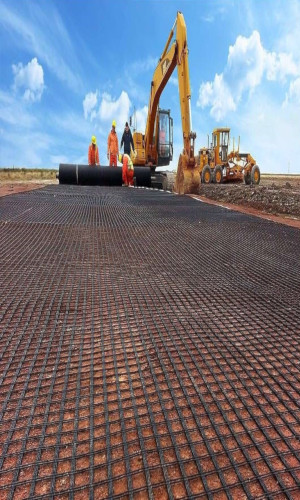
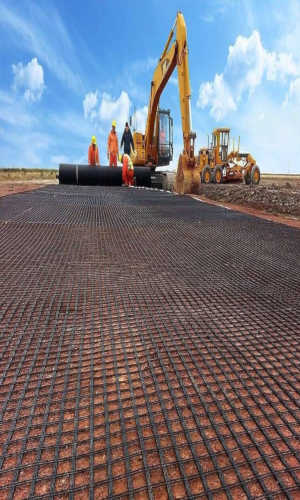
fotos atualizadas

diff --git a/index.html b/index.html
@@ -35,7 +35,7 @@
 
             <picture>
                 <source media="(max-width: 600px)" srcset="imagem/1foto300x500.jpg">
-                <img src="imagem/1foto1060x500.jpg" alt="Geossintéticos">
+                <img src="imagem/1foto1000x500.jpg" alt="Geossintéticos">
                 <figcaption class="imagens">
                     <h4><em>Geogrelhas</em></h4>
                     <p><em>A principal aplicação das geogrelhas é em reforço dos solos.</em></p>
@@ -53,8 +53,8 @@
             <p>Esses produtos são constituídos por uma grande variedade de materiais e formas, cada um adequado a um determinado uso ou necessidade. Em geotecnia as principais obras que utilizam esses materiais são: aeroportos, ferrovias, rodovias, aterros, estruturas de contenção, reservatórios, canais e barragens.</p>
 
             <picture>
-                <source media="(max-width: 600px)" srcset="imagem/canal450x550.jpg">
-                <img src="imagem/2foto1060x500.jpg" alt="Obra de Canal de Impermeabilização">
+                <source media="(max-width: 600px)" srcset="imagem/2foto450x550.jpg">
+                <img src="imagem/2foto1000x500.jpg" alt="Obra de Canal de Impermeabilização">
                 <figcaption class="imagens">
                     <h4><em>Geomembrana</em></h4>
                     <p><em>O principal objetivo das geomembranas é proteção ambiental, possibilitando a impermeabilização de maneira eficaz e muito prática.</em> </p>
